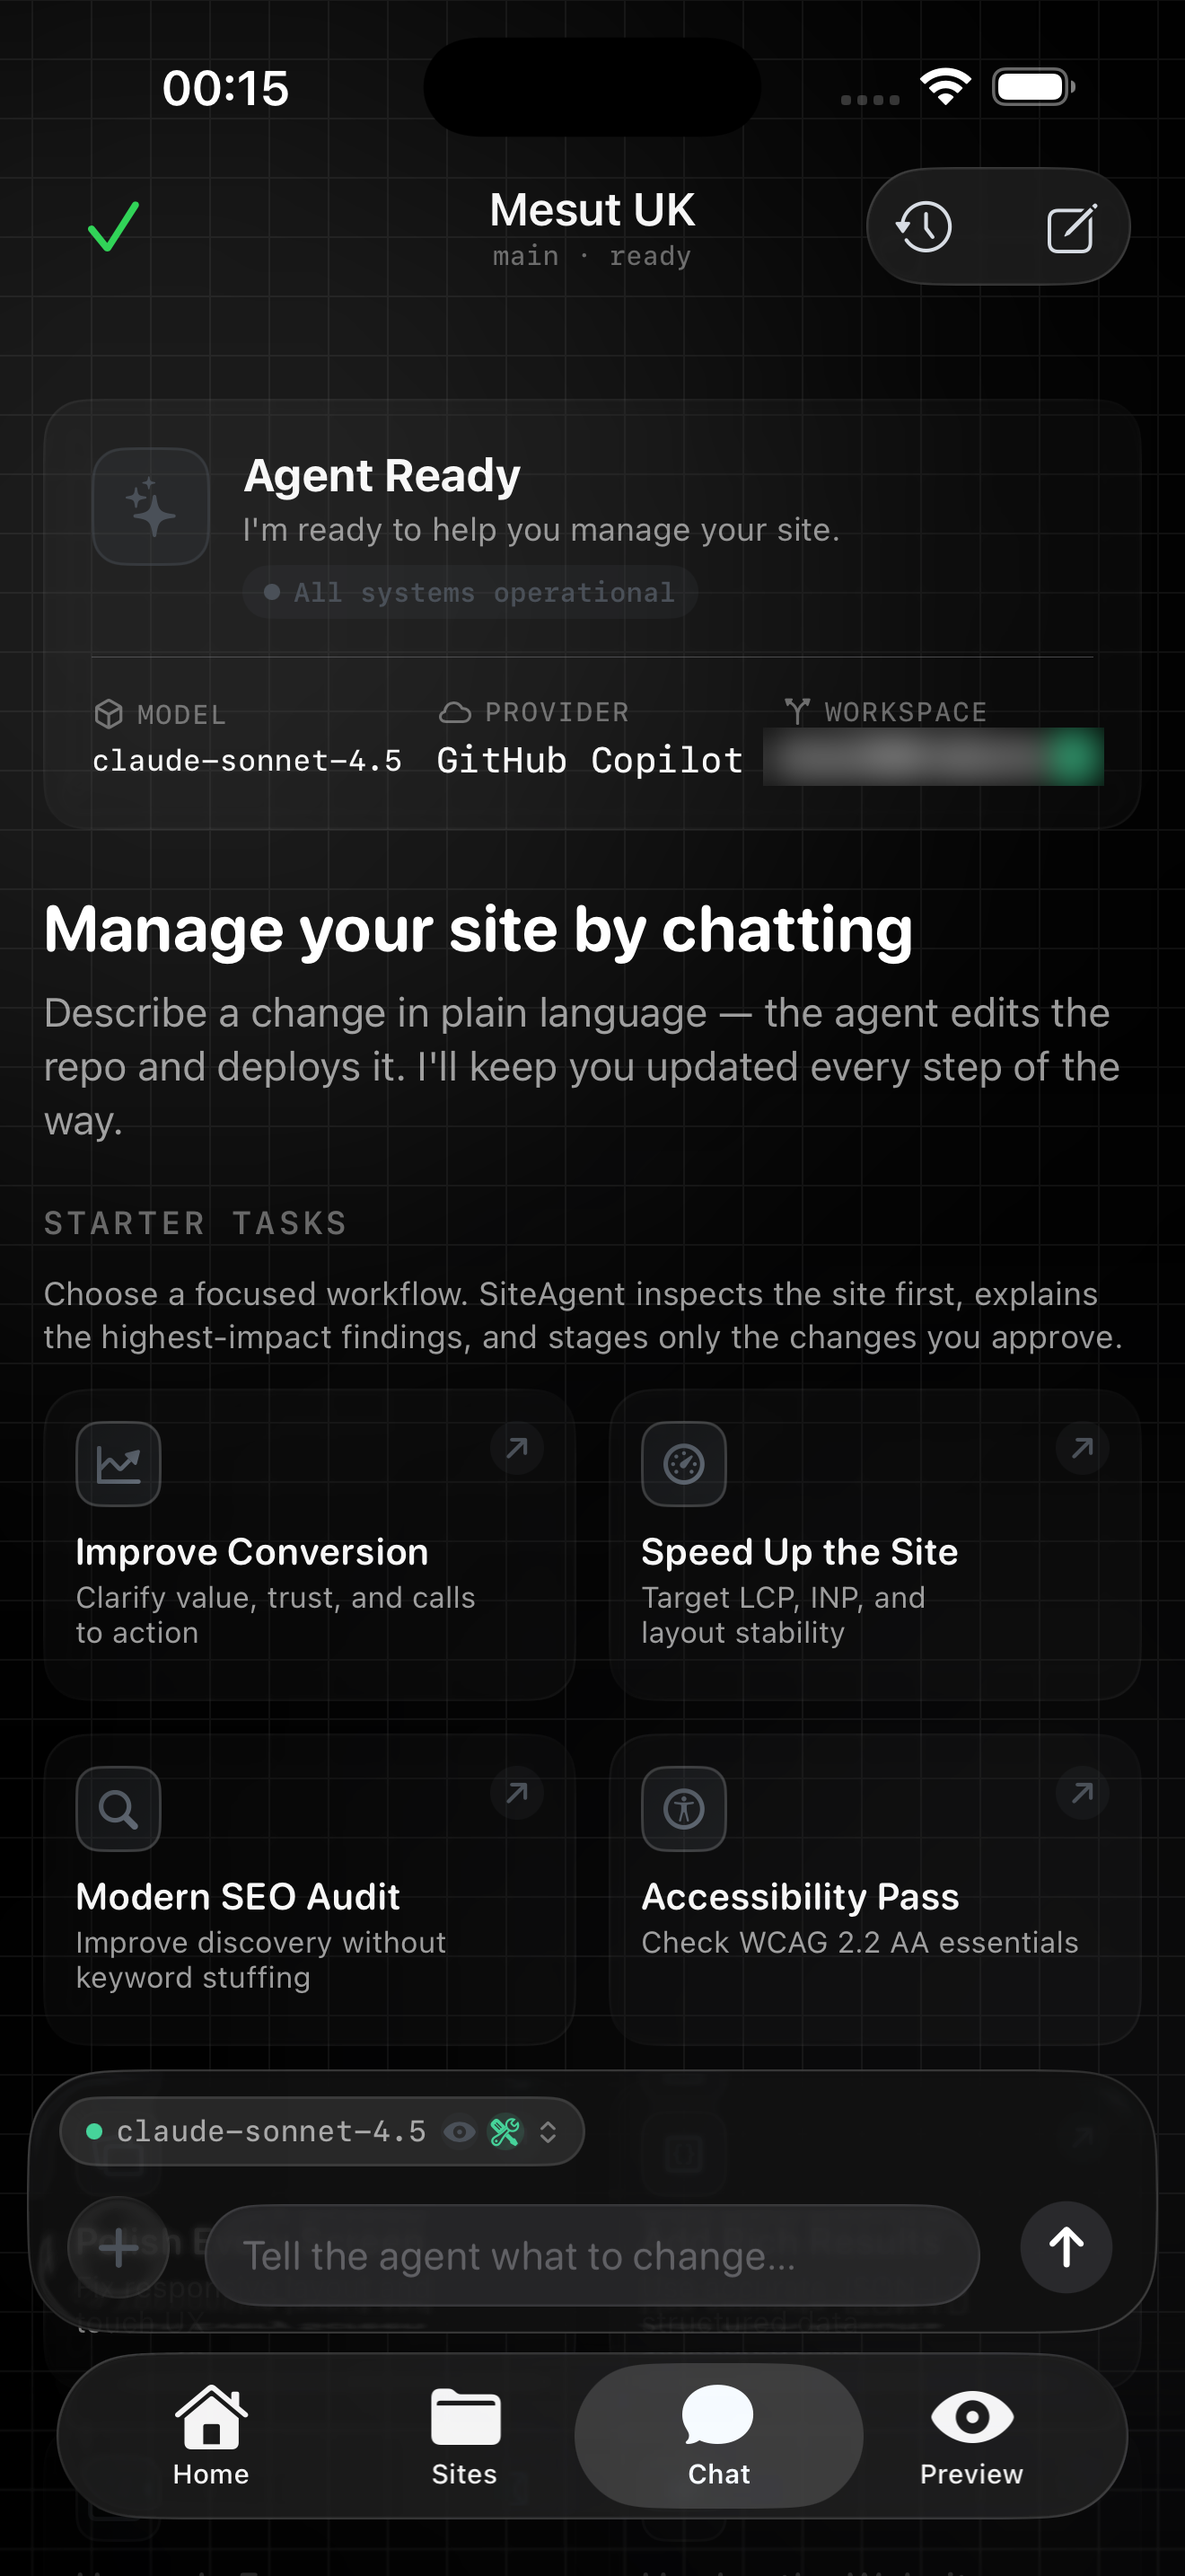
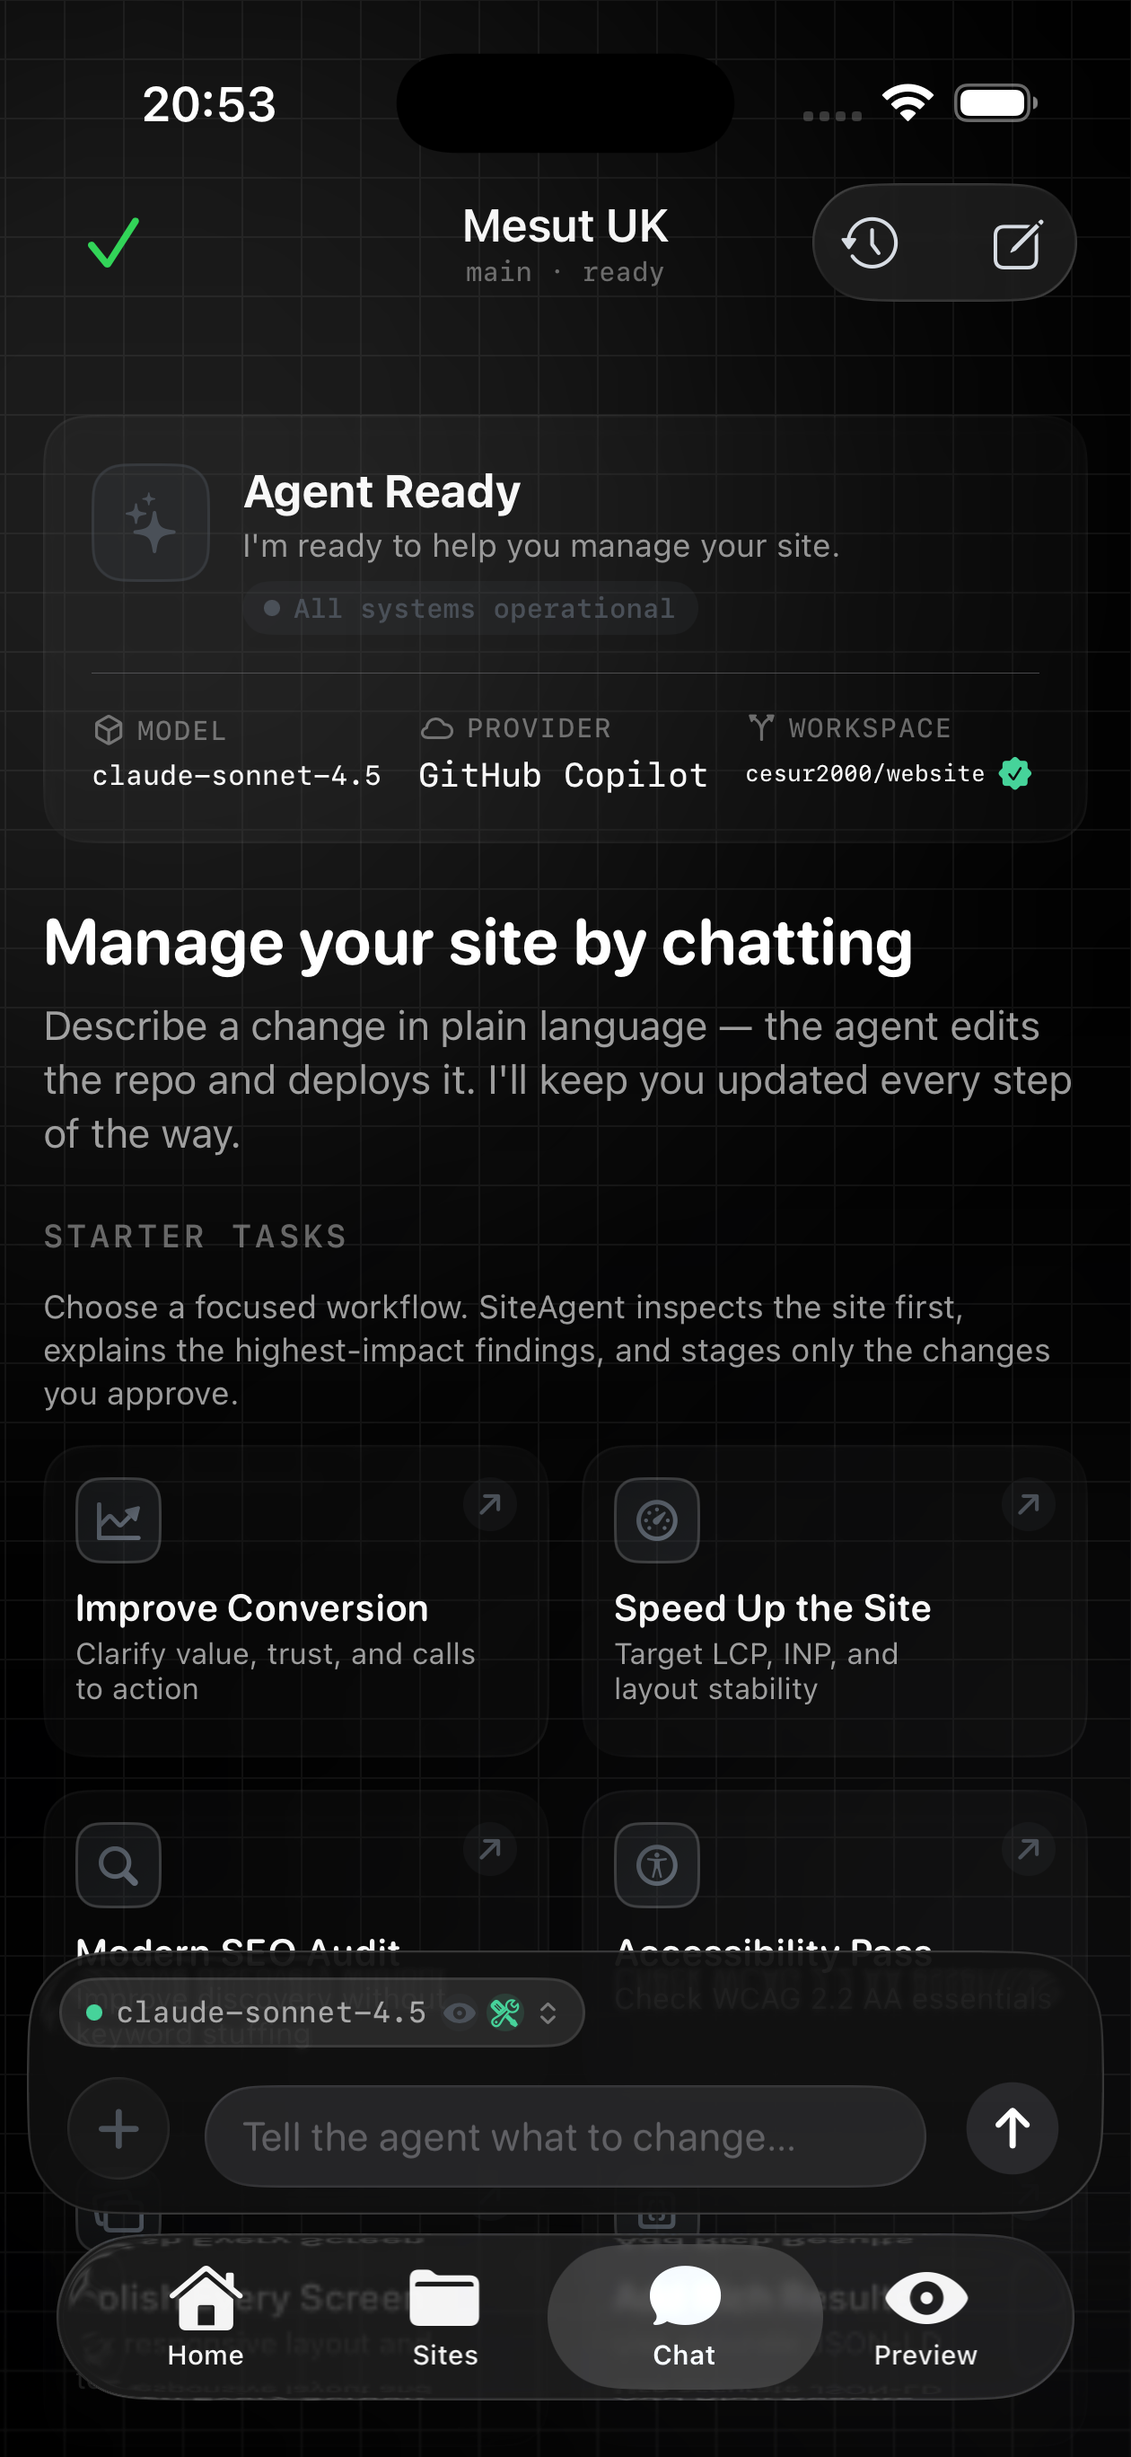
Publish sideload build 2026080906

diff --git a/index.html b/index.html
@@ -6,7 +6,7 @@
     <meta name="theme-color" content="#080a0d" />
     <meta name="description" content="SiteAgent is a glassy iOS command center for managing websites with AI, GitHub, and deployment workflows." />
     <title>SiteAgent — website command center</title>
-    <link rel="stylesheet" href="styles.css?v=hero-layout-2026080905" />
+    <link rel="stylesheet" href="styles.css?v=hero-layout-2026080906" />
   </head>
   <body>
     <div class="ambient ambient-one"></div>
@@ -41,7 +41,7 @@
             <span>arm64</span>
           </div>
           <div class="hero-actions">
-            <a class="button button-primary" href="https://github.com/Mesutcydev/SiteAgentPage/releases/download/v1.16-sideload-2026080905/SiteAgent-sideload-1.16-2026080905.ipa">Download IPA <span aria-hidden="true">↓</span></a>
+            <a class="button button-primary" href="https://github.com/Mesutcydev/SiteAgentPage/releases/download/v1.16-sideload-2026080906/SiteAgent-sideload-1.16-2026080906.ipa">Download IPA <span aria-hidden="true">↓</span></a>
             <a class="button button-secondary" href="#previews">See the app <span aria-hidden="true">↘</span></a>
           </div>
           <p class="microcopy">Built for sideloading · paywall-free build · memory entitlements retained</p>
@@ -53,7 +53,7 @@
             <span>COMMAND CENTER</span>
             <span class="panel-time">READY</span>
           </div>
-          <div class="panel-title">Your sites,<br /><span>within reach.</span></div>
+          <div class="panel-title">Connected sites,<br /><span>at a glance.</span></div>
           <div class="mini-grid">
             <div class="mini-stat">
               <span class="mini-label">Connected sites</span>
@@ -80,7 +80,7 @@
           <p class="eyebrow">Current simulator captures</p>
           <h2>The app in its dark, colorless glass skin.</h2>
         </div>
-        <p class="section-note">Captured from the booted iOS simulator after the Deployment and Preview fixes. Sensitive repository and billing identifiers are obscured; the site name and domain remain readable.</p>
+        <p class="section-note">Captured from the booted iOS simulator after the Deployment and Preview fixes. Public site names and domains are shown; credentials and tokens are not included.</p>
       </section>
 
       <section class="preview-grid" aria-label="SiteAgent iOS app previews">
@@ -197,10 +197,10 @@
         <div class="download-copy">
           <p class="eyebrow">Latest sideload release</p>
           <h2>A build you can carry with you.</h2>
-          <p>Release 1.16 makes the top Deployment item status-only and keeps the lower Configure control as the single deployment entry point. It also resets preview state between sites, loads dynamic live sites when a static index is unavailable, rejects unsafe URL schemes, and retains the paywall-free sideload marker and on-device memory entitlements.</p>
+          <p>Release 1.16 makes the top Deployment item status-only and keeps the lower Configure control as the single deployment entry point. It also resets preview state between sites, discovers live URLs from Wrangler and modern JavaScript projects when a static index is unavailable, rejects unsafe URL schemes, and retains the paywall-free sideload marker and on-device memory entitlements.</p>
           <div class="download-meta">
             <span><b>Version</b> 1.16</span>
-            <span><b>Build</b> 2026080905</span>
+            <span><b>Build</b> 2026080906</span>
             <span><b>Format</b> IPA · arm64</span>
           </div>
         </div>
@@ -208,16 +208,16 @@
           <div class="download-icon">↓</div>
           <div>
             <strong>SiteAgent.ipa</strong>
-            <span>GitHub Release asset · v1.16-sideload-2026080905</span>
+            <span>GitHub Release asset · v1.16-sideload-2026080906</span>
           </div>
-          <a class="button button-primary" href="https://github.com/Mesutcydev/SiteAgentPage/releases/download/v1.16-sideload-2026080905/SiteAgent-sideload-1.16-2026080905.ipa">Download</a>
-          <code>SHA-256: ba8431da41a845ac0a6c4af7eb20bd1125ea2ba796fcc66450ab90630d3e8c4e</code>
+          <a class="button button-primary" href="https://github.com/Mesutcydev/SiteAgentPage/releases/download/v1.16-sideload-2026080906/SiteAgent-sideload-1.16-2026080906.ipa">Download</a>
+          <code>SHA-256: c1dc0261fc1fad90f61ae58880796b6af950500e058ae20f0921bd58f8e0083f</code>
         </div>
       </section>
 
       <section class="note-row">
         <span class="note-mark">✦</span>
-        <p><strong>Release note.</strong> The circled Connection Status Deployment row is no longer interactive, eliminating its sideload crash path. Use the lower Configure control to open deployment settings. Preview also recovers conventional entry files from truncated GitHub trees and falls back to the configured live site when no built HTML is available.</p>
+        <p><strong>Release note.</strong> The circled Connection Status Deployment row is no longer interactive, eliminating its sideload crash path. Use the lower Configure control to open deployment settings. Preview now refreshes between sites and resolves configured or repository-declared live URLs, including dynamic Next.js/OpenNext deployments such as elemanlazim.net, when no built HTML is available.</p>
       </section>
     </main>
 

diff --git a/styles.css b/styles.css
@@ -85,7 +85,7 @@ h2 { margin-bottom: 12px; font-size: clamp(30px, 4vw, 48px); line-height: 1.03; 
 .panel-topline { display: flex; align-items: center; gap: 8px; color: var(--dim); font: 600 10px/1 ui-monospace, SFMono-Regular, Menlo, monospace; letter-spacing: .15em; }
 .status-dot { width: 8px; height: 8px; border-radius: 50%; background: var(--neutral); box-shadow: 0 0 18px rgba(217,222,230,.7); }
 .panel-time { margin-left: auto; color: var(--neutral-deep); }
-.panel-title { position: relative; z-index: 1; max-width: 14ch; margin: clamp(42px, 7vw, 78px) 0 28px; font-size: 56px; line-height: .98; letter-spacing: -.065em; }
+.panel-title { position: relative; z-index: 1; max-width: 14ch; min-height: 2.05em; margin: clamp(42px, 7vw, 78px) 0 36px; font-size: 56px; line-height: .98; letter-spacing: -.065em; }
 .panel-title span { color: var(--muted); }
 .mini-grid { position: relative; z-index: 2; right: auto; bottom: auto; left: auto; display: grid; grid-template-columns: 1fr 1fr; gap: 10px; width: 100%; margin-top: 0; }
 .mini-stat { min-height: 98px; padding: 15px; border: 1px solid var(--line); border-radius: 16px; background: rgba(0,0,0,.14); }
@@ -179,7 +179,7 @@ tr:last-child td { border-bottom: 0; }
   .hero-actions { flex-direction: column; align-items: stretch; }
   nav a:nth-child(4) { display: none; }
   .hero-panel { min-height: 0; padding: 20px; border-radius: 23px; }
-  .panel-title { max-width: 14ch; margin: 36px 0 24px; font-size: 43px; }
+  .panel-title { max-width: 14ch; min-height: 2.05em; margin: 36px 0 32px; font-size: 43px; }
   .workflow-section { padding: 100px 0 20px; }
   .workflow-grid { grid-template-columns: 1fr; }
   .workflow-step { min-height: 0; }
